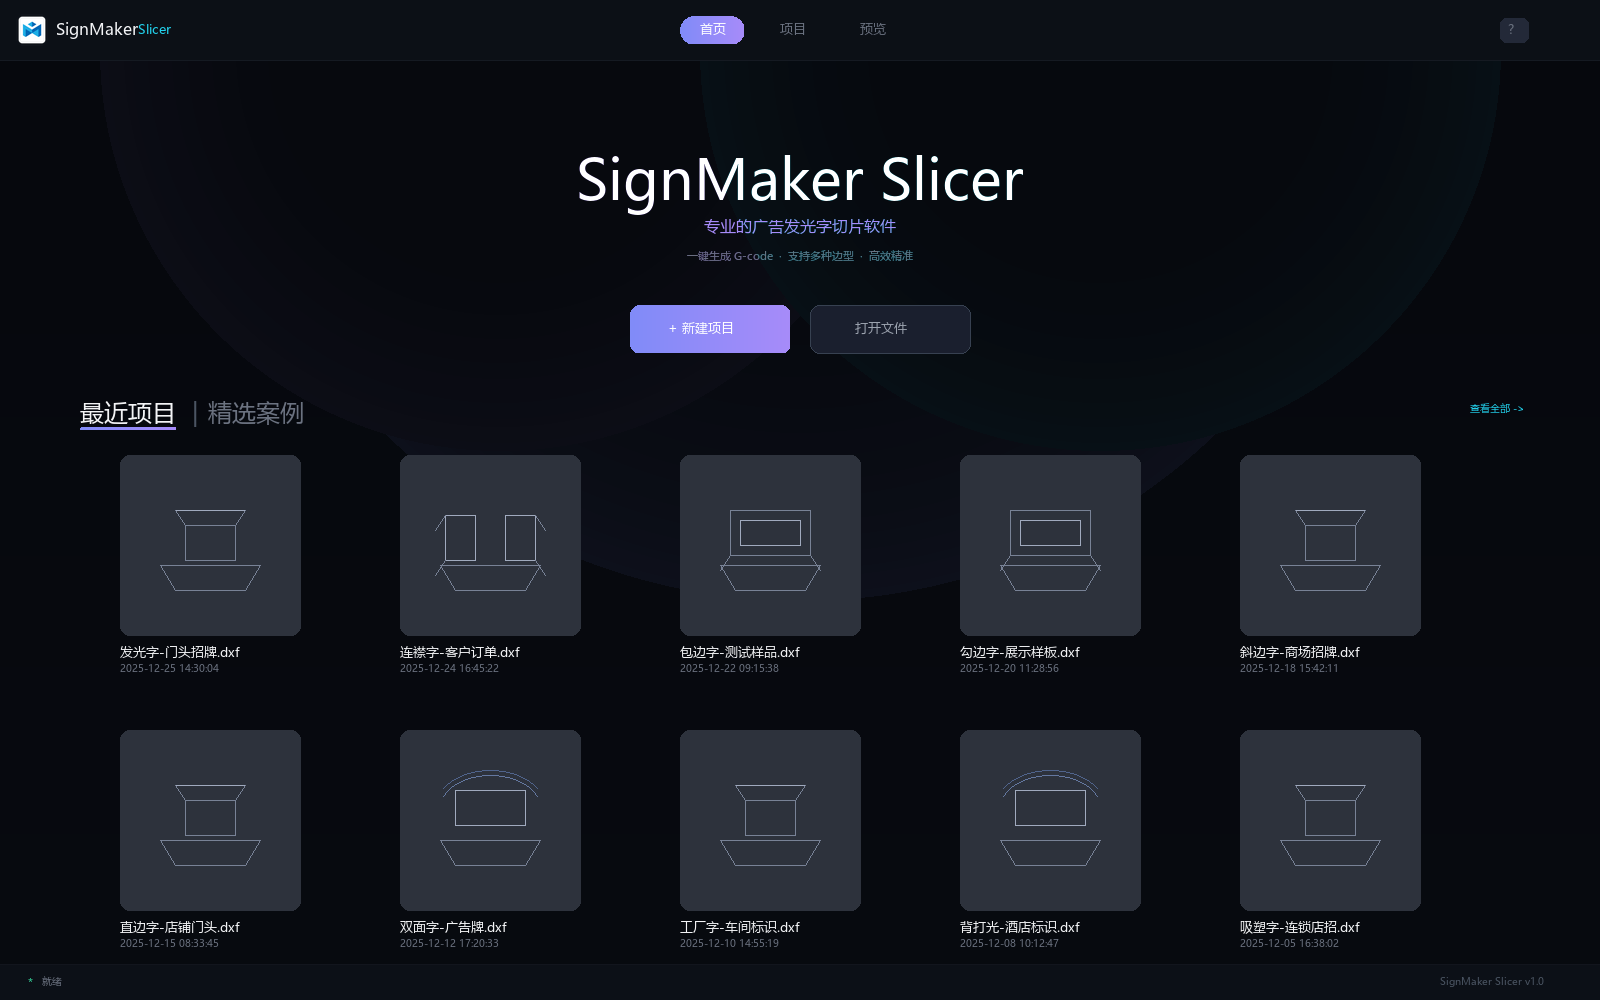
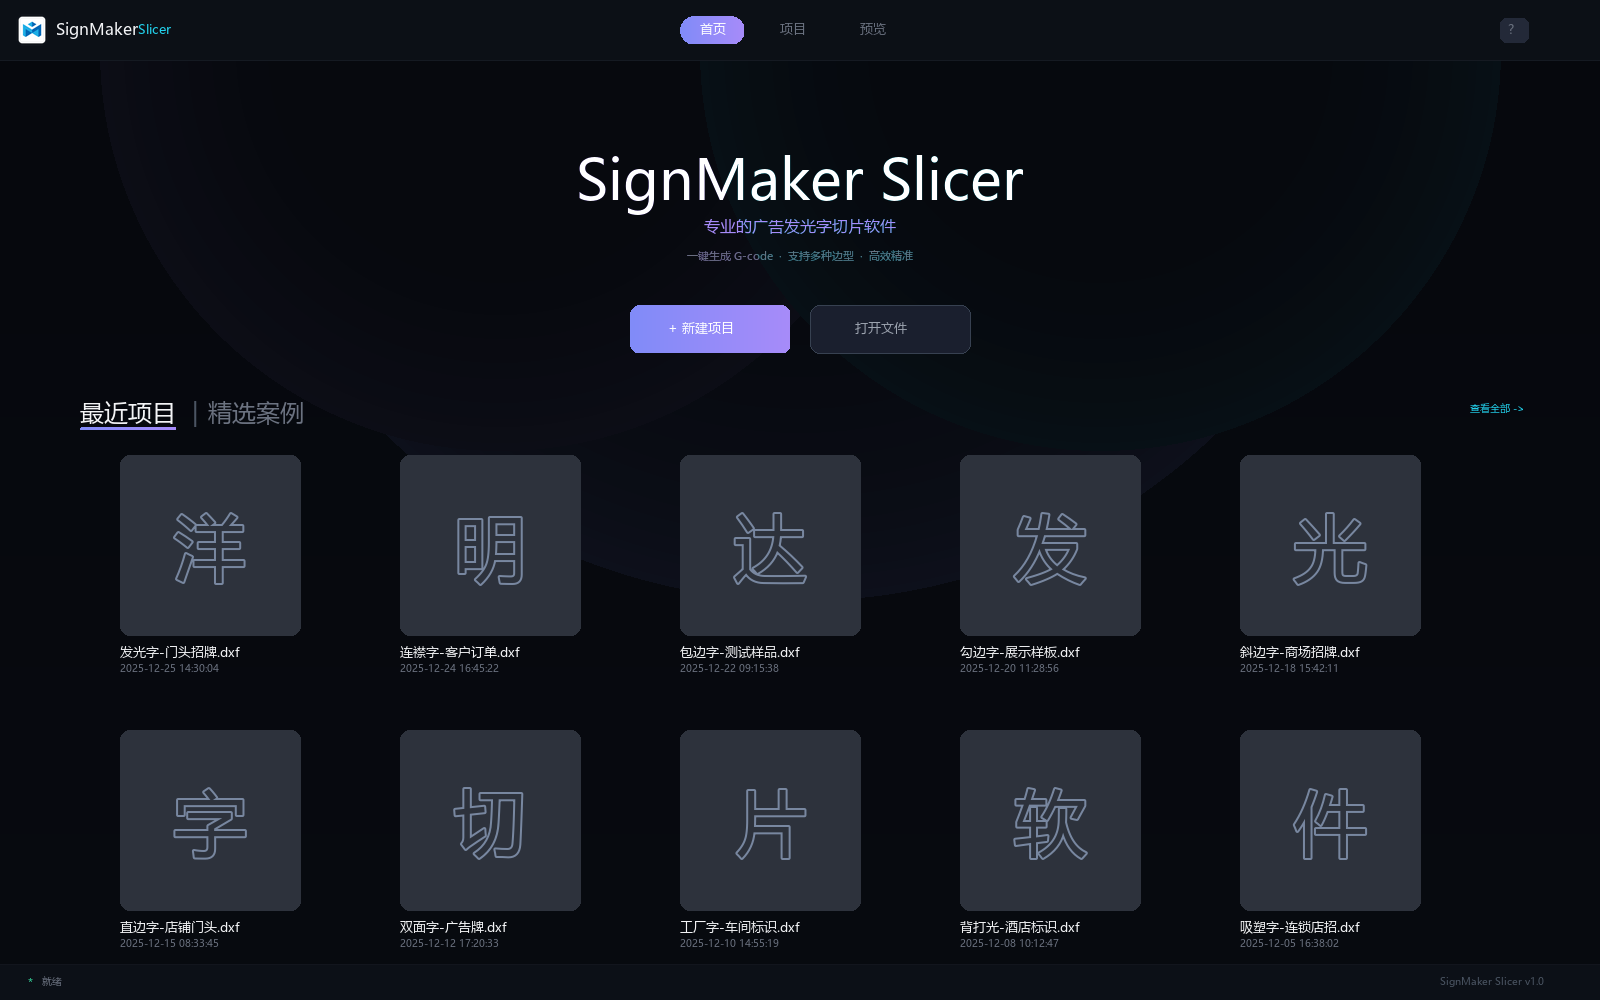
feat: 首页预览图改为洋明达发光字切片软件线框文字
- 10个预览图显示"洋明达发光字切片软件"各字符
- 文字使用描边效果，无填充
- 文字居中显示

diff --git a/scripts/generate_ui_home.py b/scripts/generate_ui_home.py
@@ -284,6 +284,9 @@ if tab_selected == 0:
         ("吸塑字-连锁店招.dxf", "2025-12-05 16:38:02", C["accent_indigo"]),
     ]
 
+    # 预览图显示的字符 - "洋明达发光字切片软件"
+    preview_chars = ["洋", "明", "达", "发", "光", "字", "切", "片", "软", "件"]
+
     # 2行5列布局 - 正方形卡片
     cols = 5
     rows = 2
@@ -295,6 +298,12 @@ if tab_selected == 0:
     # 预览图区域参数（正方形预览图）
     preview_size = 180
     preview_margin = (card_size - preview_size) // 2
+
+    # 加载大号字体用于预览图中的字符
+    try:
+        font_preview = ImageFont.truetype("msyh.ttc", 72)
+    except:
+        font_preview = font_display
 
     for i, (name, time, accent) in enumerate(projects):
         row = i // cols
@@ -308,66 +317,20 @@ if tab_selected == 0:
         preview_y = cy + 10
         draw_rounded_rect(preview_x, preview_y, preview_size, preview_size, 10, fill=(45, 50, 60))
 
-        # 预览图中的线框图样式
+        # 预览图中心
         icon_cx = preview_x + preview_size // 2
         icon_cy = preview_y + preview_size // 2
 
+        # 获取当前预览字符
+        char = preview_chars[i] if i < len(preview_chars) else "字"
+
         # 线框颜色
-        wire_color = (120, 130, 150)
-        wire_highlight = (160, 170, 190)
+        wire_color = (120, 135, 160)
 
-        # 绘制3D线框图 - 统一简洁风格
-        # 底部平面（斜视角）
-        base_pts = [
-            (icon_cx - 50, icon_cy + 20),
-            (icon_cx + 50, icon_cy + 20),
-            (icon_cx + 35, icon_cy + 45),
-            (icon_cx - 35, icon_cy + 45)
-        ]
-        draw.polygon(base_pts, outline=wire_color, width=1)
-
-        # 根据类型绘制不同的3D字形线框
-        if "连襟" in name:
-            # 两个连接的字形
-            # 左边字
-            draw.polygon([(icon_cx-45, icon_cy-30), (icon_cx-15, icon_cy-30),
-                          (icon_cx-15, icon_cy+15), (icon_cx-45, icon_cy+15)], outline=wire_highlight, width=1)
-            draw.line([(icon_cx-45, icon_cy-30), (icon_cx-55, icon_cy-15)], fill=wire_color, width=1)
-            draw.line([(icon_cx-45, icon_cy+15), (icon_cx-55, icon_cy+30)], fill=wire_color, width=1)
-            # 右边字
-            draw.polygon([(icon_cx+15, icon_cy-30), (icon_cx+45, icon_cy-30),
-                          (icon_cx+45, icon_cy+15), (icon_cx+15, icon_cy+15)], outline=wire_highlight, width=1)
-            draw.line([(icon_cx+45, icon_cy-30), (icon_cx+55, icon_cy-15)], fill=wire_color, width=1)
-            draw.line([(icon_cx+45, icon_cy+15), (icon_cx+55, icon_cy+30)], fill=wire_color, width=1)
-        elif "包边" in name or "勾边" in name:
-            # 带边框的字形 - 双层轮廓
-            draw.polygon([(icon_cx-40, icon_cy-35), (icon_cx+40, icon_cy-35),
-                          (icon_cx+40, icon_cy+10), (icon_cx-40, icon_cy+10)], outline=wire_color, width=1)
-            draw.polygon([(icon_cx-30, icon_cy-25), (icon_cx+30, icon_cy-25),
-                          (icon_cx+30, icon_cy), (icon_cx-30, icon_cy)], outline=wire_highlight, width=1)
-            # 3D深度线
-            draw.line([(icon_cx-40, icon_cy+10), (icon_cx-50, icon_cy+25)], fill=wire_color, width=1)
-            draw.line([(icon_cx+40, icon_cy+10), (icon_cx+50, icon_cy+25)], fill=wire_color, width=1)
-        elif "双面" in name or "背打光" in name:
-            # 发光字 - 简洁轮廓 + 光晕线
-            draw.polygon([(icon_cx-35, icon_cy-30), (icon_cx+35, icon_cy-30),
-                          (icon_cx+35, icon_cy+5), (icon_cx-35, icon_cy+5)], outline=wire_highlight, width=1)
-            # 光晕效果线
-            draw.arc([icon_cx-50, icon_cy-45, icon_cx+50, icon_cy+20], 200, 340, fill=(100, 120, 160), width=1)
-            draw.arc([icon_cx-55, icon_cy-50, icon_cx+55, icon_cy+25], 210, 330, fill=(80, 100, 140), width=1)
-        else:
-            # 默认：标准3D字形线框
-            # 顶面
-            top_pts = [(icon_cx-35, icon_cy-35), (icon_cx+35, icon_cy-35),
-                       (icon_cx+25, icon_cy-20), (icon_cx-25, icon_cy-20)]
-            draw.polygon(top_pts, outline=wire_highlight, width=1)
-            # 正面
-            front_pts = [(icon_cx-25, icon_cy-20), (icon_cx+25, icon_cy-20),
-                         (icon_cx+25, icon_cy+15), (icon_cx-25, icon_cy+15)]
-            draw.polygon(front_pts, outline=wire_color, width=1)
-            # 侧面连接线
-            draw.line([(icon_cx+35, icon_cy-35), (icon_cx+25, icon_cy-20)], fill=wire_color, width=1)
-            draw.line([(icon_cx-35, icon_cy-35), (icon_cx-25, icon_cy-20)], fill=wire_color, width=1)
+        # 绘制字符轮廓（只有描边，没有填充）- 使用 anchor 居中
+        bg_color = (45, 50, 60)
+        draw.text((icon_cx, icon_cy), char, font=font_preview, fill=bg_color,
+                  stroke_width=2, stroke_fill=wire_color, anchor="mm")
 
         # 文件名 - 在预览图下方，与预览图左对齐
         text_y = preview_y + preview_size + 8
